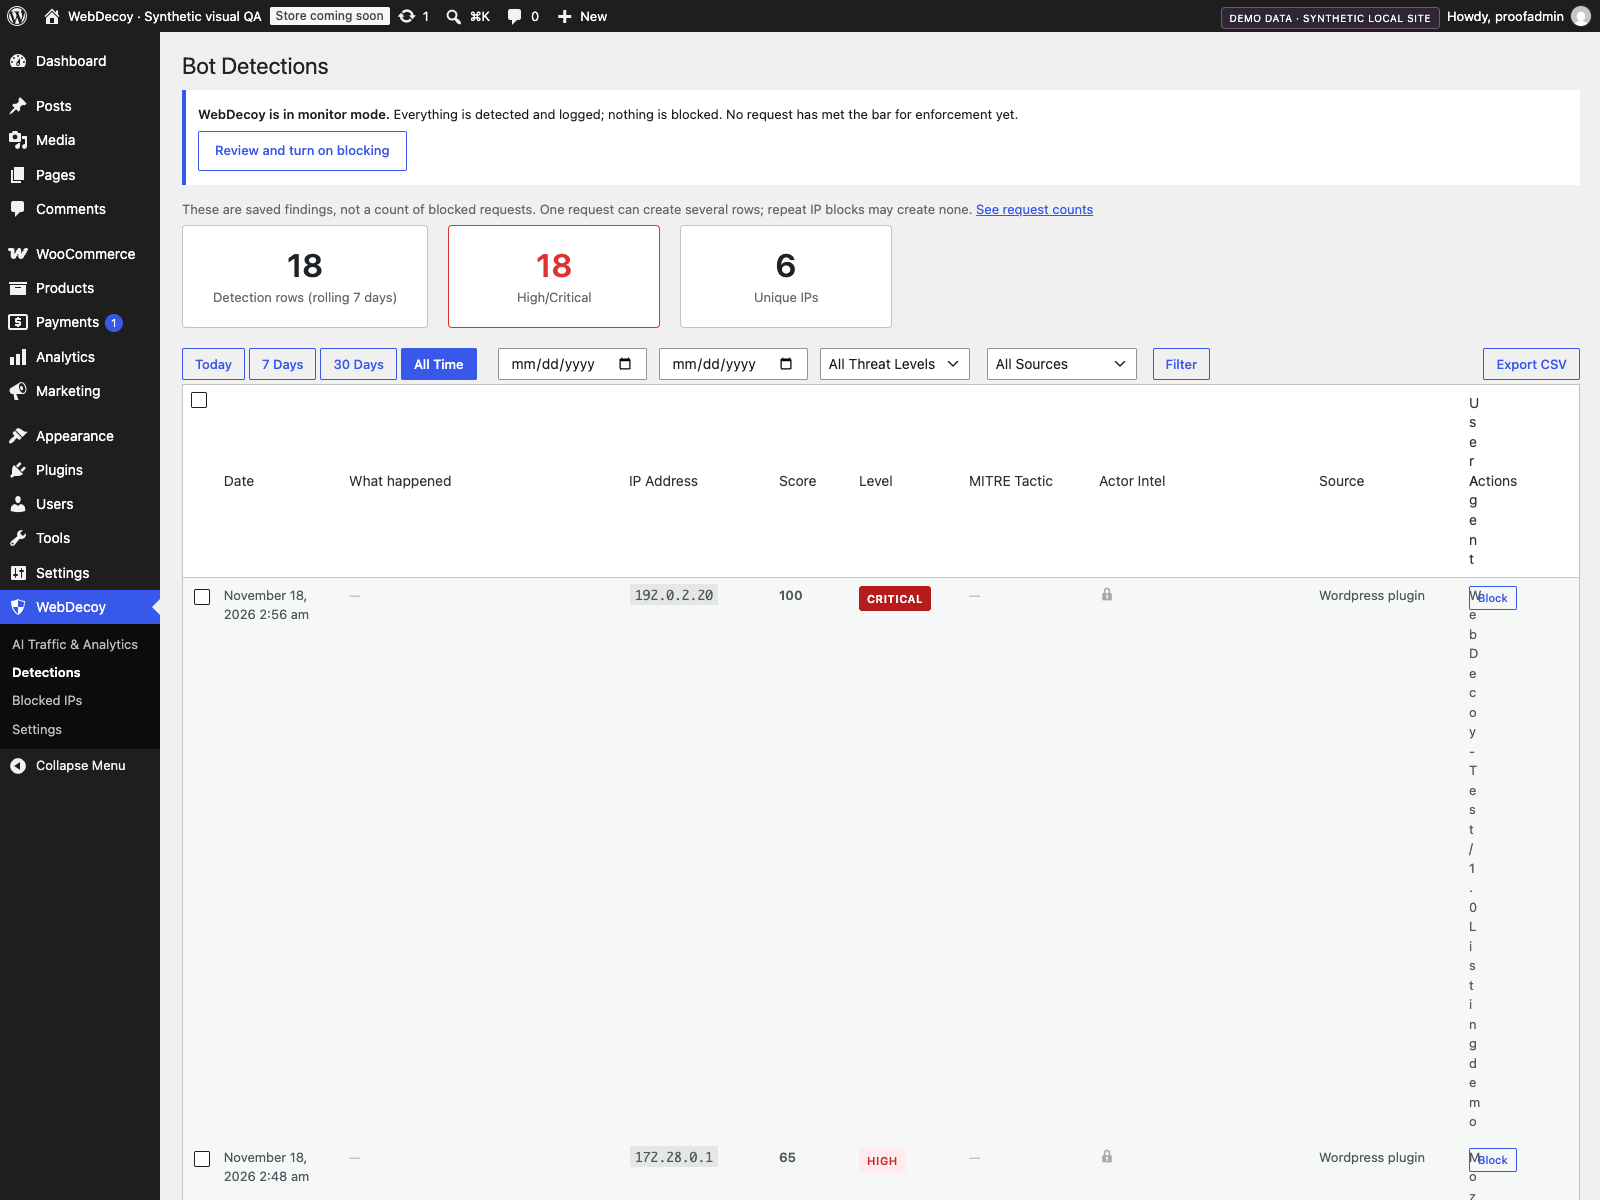
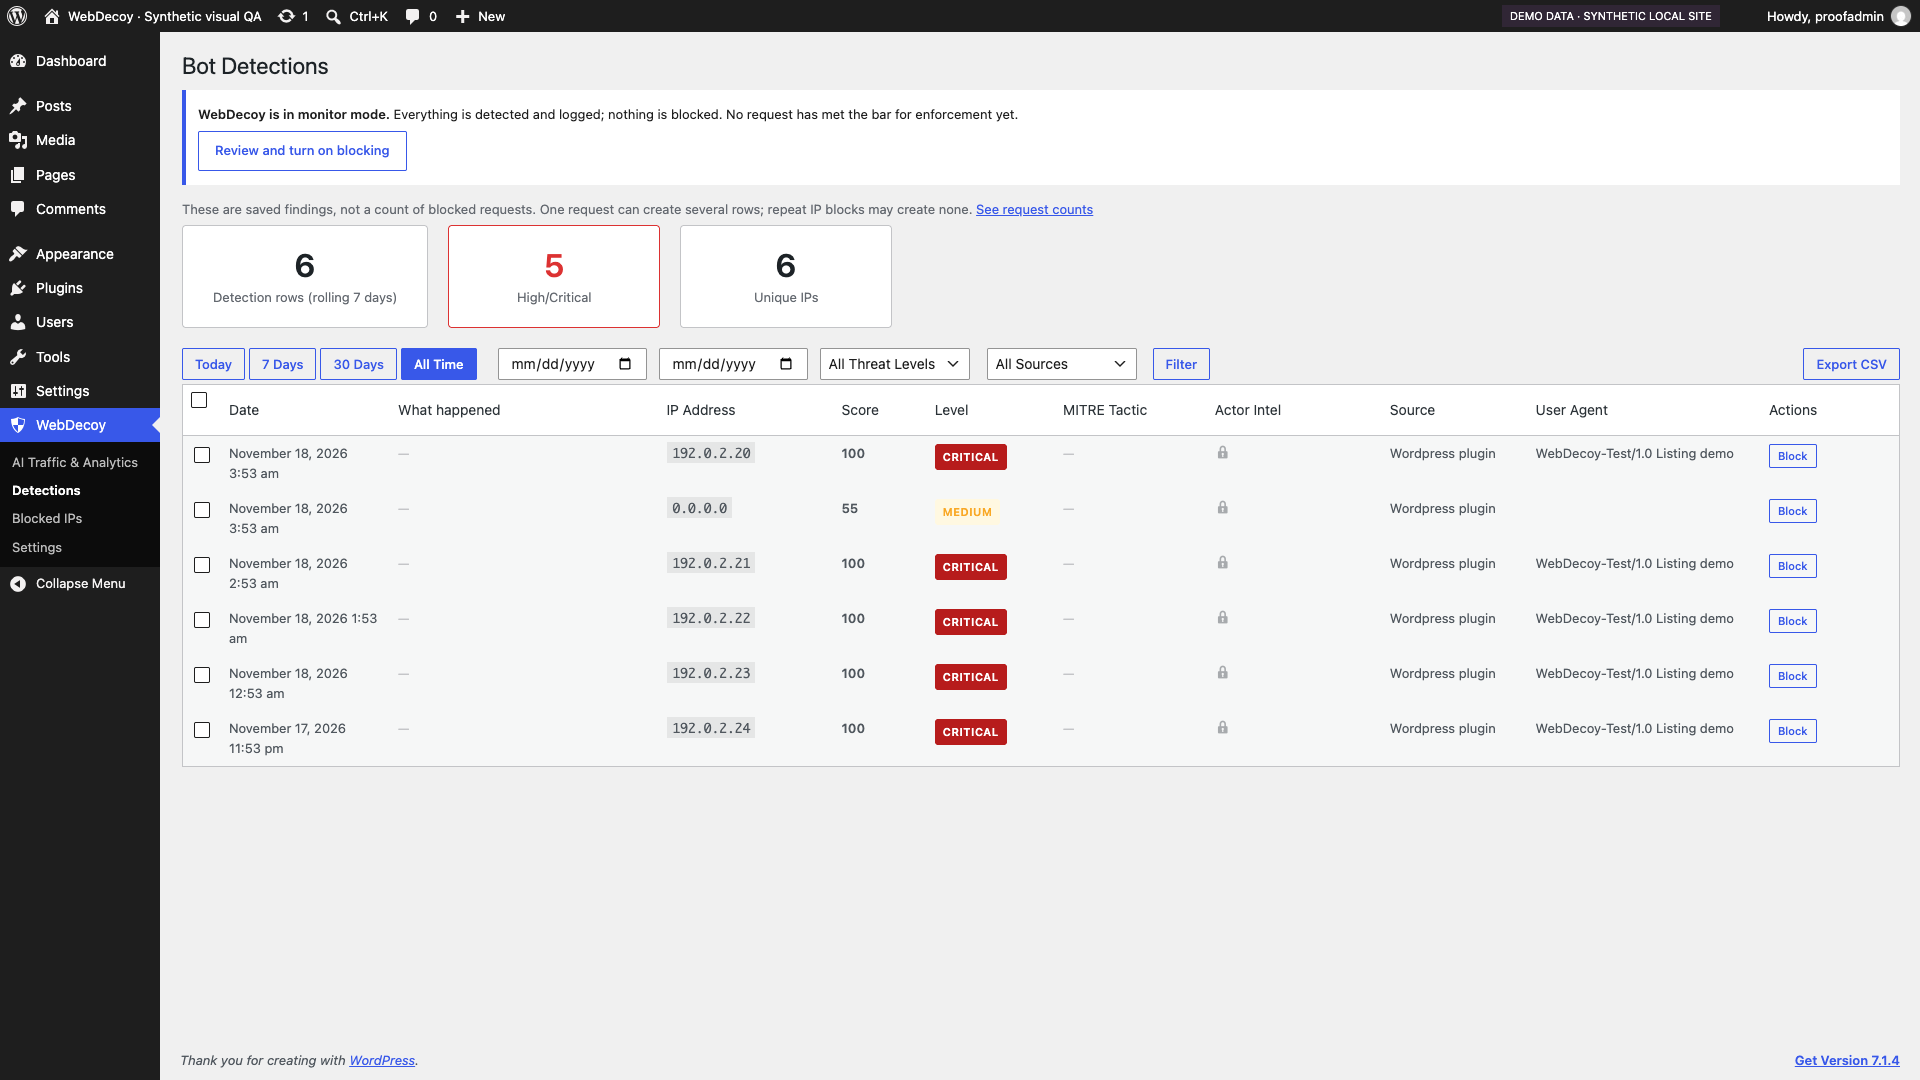
Fix detection table sizing and compact dashboard widget (#143)

diff --git a/admin/css/webdecoy-admin.css b/admin/css/webdecoy-admin.css
@@ -1214,3 +1214,42 @@
 .wd-analytics .notice-info p { display: inline-block; margin: 8px 8px 8px 0; }
 
 .wd-table-scroll { overflow-x: auto; margin-bottom: 24px; }
+
+/* Keep technical columns readable; scroll the table instead of crushing User Agent. */
+.wd-detections-scroll { width: 100%; overflow-x: auto; }
+.wd-detections-table { min-width: 1440px; }
+.wd-detections-table .column-ua { width: 180px; display: table-cell; overflow-wrap: anywhere; }
+.wd-detections-table .column-what { width: 210px; }
+.wd-detections-table .column-intel { width: 130px; }
+.wd-detections-table .column-date { width: 125px; }
+.wd-detections-table .column-source { width: 105px; }
+.wd-detections-table td { vertical-align: top; }
+
+/* Dashboard overview stays useful at the native WordPress widget width. */
+#webdecoy_dashboard_widget .wd-widget-brand { display:flex; align-items:center; gap:8px; padding:8px 0 14px; border-bottom:2px solid #f90289; }
+#webdecoy_dashboard_widget .wd-widget-brand a { margin-left:auto; font-size:12px; }
+#webdecoy_dashboard_widget .webdecoy-widget-stats { gap:8px; padding:14px 0; }
+#webdecoy_dashboard_widget .webdecoy-stat { flex:1; min-width:0; }
+#webdecoy_dashboard_widget .webdecoy-stat-value { font-size:25px; }
+#webdecoy_dashboard_widget .webdecoy-stat-label { font-size:11px; line-height:1.3; display:block; margin-top:4px; }
+#webdecoy_dashboard_widget .webdecoy-widget-crawlers h4 { margin-top:12px; }
+#webdecoy_dashboard_widget .webdecoy-widget-agents { margin:10px 0; }
+#webdecoy_dashboard_widget .wd-widget-bar-row { position:relative; isolation:isolate; padding:6px 9px; margin-bottom:4px; gap:8px; }
+#webdecoy_dashboard_widget .wd-widget-bar { position:absolute; z-index:-1; inset:0 auto 0 0; background:#fce4f1; border-radius:3px; }
+#webdecoy_dashboard_widget .webdecoy-widget-ai-referrals .wd-widget-bar { background:#eeebfa; }
+#webdecoy_dashboard_widget .webdecoy-count { font-variant-numeric:tabular-nums; font-weight:600; }
+#webdecoy_dashboard_widget .webdecoy-widget-footnote { margin-bottom:0; }
+#webdecoy_dashboard_widget .wd-widget-details { padding:12px 0; border-bottom:1px solid #eee; }
+#webdecoy_dashboard_widget .wd-widget-details summary { cursor:pointer; font-weight:600; }
+#webdecoy_dashboard_widget .webdecoy-widget-upsell { margin-top:12px; padding:8px 10px; background:#faf7fb; border-left:3px solid #f90289; }
+@media (max-width:480px) {
+    #webdecoy_dashboard_widget .wd-widget-brand { flex-wrap:wrap; }
+    #webdecoy_dashboard_widget .wd-widget-brand a { margin-left:40px; }
+}
+@media (max-width:782px) {
+    .webdecoy-date-buttons { flex-wrap:wrap; margin-right:0; }
+    .webdecoy-filters { min-width:0; max-width:100%; }
+}
+@media (max-width:782px) {
+    .webdecoy-stat-box { box-sizing:border-box; min-width:0; }
+}

diff --git a/admin/partials/dashboard-widget.php b/admin/partials/dashboard-widget.php
@@ -61,6 +61,11 @@ if (class_exists('WooCommerce')) {
 ?>
 
 <div class="webdecoy-widget">
+    <div class="wd-widget-brand">
+        <img src="<?php echo esc_url(WEBDECOY_PLUGIN_URL . 'assets/duck.png'); ?>" width="32" height="32" alt="" />
+        <strong><?php esc_html_e('Your AI & bot traffic', 'webdecoy'); ?></strong>
+        <a href="<?php echo esc_url(admin_url('admin.php?page=webdecoy-statistics')); ?>"><?php esc_html_e('Open analytics →', 'webdecoy'); ?></a>
+    </div>
     <?php
     // Trip-it-yourself prompt (app#679): shown only while the widget has
     // nothing to report — once real detections exist, the numbers speak.
@@ -116,7 +121,8 @@ if (class_exists('WooCommerce')) {
         </p>
         <ul class="webdecoy-widget-agents">
             <?php foreach (array_slice($crawlers['agents'], 0, 5) as $webdecoy_dw_agent) : ?>
-            <li>
+            <li class="wd-widget-bar-row">
+                <span class="wd-widget-bar" aria-hidden="true" style="width: <?php echo esc_attr((string) min(100, 100 * (int) $webdecoy_dw_agent['hits'] / max(1, (int) $crawlers['agents'][0]['hits']))); ?>%"></span>
                 <span class="webdecoy-agent-name">
                     <strong><?php echo esc_html($webdecoy_dw_agent['name']); ?></strong>
                     <span class="webdecoy-agent-category"><?php echo esc_html(WebDecoy_Crawler_Visits::category_label((string) $webdecoy_dw_agent['category'])); ?></span>
@@ -141,7 +147,8 @@ if (class_exists('WooCommerce')) {
         <?php if ((int) $ai_referrals['total'] > 0) : ?>
         <ul class="webdecoy-widget-agents">
             <?php foreach (array_slice($ai_referrals['platforms'], 0, 5) as $webdecoy_dw_ref) : ?>
-            <li>
+            <li class="wd-widget-bar-row">
+                <span class="wd-widget-bar" aria-hidden="true" style="width: <?php echo esc_attr((string) min(100, 100 * (int) $webdecoy_dw_ref['referrals'] / max(1, (int) $ai_referrals['platforms'][0]['referrals']))); ?>%"></span>
                 <span class="webdecoy-agent-name"><strong><?php echo esc_html($webdecoy_dw_ref['platform']); ?></strong></span>
                 <span class="webdecoy-count"><?php echo esc_html(number_format((int) $webdecoy_dw_ref['referrals'])); ?></span>
             </li>
@@ -154,6 +161,8 @@ if (class_exists('WooCommerce')) {
         <?php endif; ?>
     </div>
 
+    <details class="wd-widget-details">
+        <summary><?php esc_html_e('Protection & request counts', 'webdecoy'); ?></summary>
     <div class="webdecoy-widget-request-counts">
         <h4><?php esc_html_e('Detection rows and requests today (UTC)', 'webdecoy'); ?></h4>
         <?php if ($request_counts_today['available']) : ?>
@@ -226,6 +235,8 @@ if (class_exists('WooCommerce')) {
         </a>
     </div>
 
+    </details>
+
     <?php
     $options = get_option('webdecoy_options', []);
     if (empty($options['api_key'])) :
@@ -233,7 +244,7 @@ if (class_exists('WooCommerce')) {
     <div class="webdecoy-widget-upsell">
         <p>
             <strong><?php esc_html_e('Everything above works without an account.', 'webdecoy'); ?></strong>
-            <?php esc_html_e('Connect for free to see these detections in the WebDecoy dashboard and get a monthly report. Paid plans add whether an address has been seen attacking other sites, and webhook alerts.', 'webdecoy'); ?>
+
             <a href="<?php echo esc_url(admin_url('admin.php?page=webdecoy&tab=cloud')); ?>">
                 <?php esc_html_e('Connect this site', 'webdecoy'); ?>
             </a>

diff --git a/admin/partials/detections-page.php b/admin/partials/detections-page.php
@@ -285,7 +285,8 @@ if ($wd_intel_connected && !empty($detections) && class_exists('WebDecoy_Actor_I
             <p><?php esc_html_e('No detections found.', 'webdecoy'); ?></p>
         <?php endif; ?>
     <?php else : ?>
-        <table class="wp-list-table widefat fixed striped">
+        <div class="wd-detections-scroll" role="region" aria-label="<?php esc_attr_e('Bot detections', 'webdecoy'); ?>" tabindex="0">
+        <table class="wp-list-table widefat fixed striped wd-detections-table">
             <thead>
                 <tr>
                     <th class="check-column"><input type="checkbox" id="webdecoy-select-all" /></th>
@@ -527,6 +528,7 @@ if ($wd_intel_connected && !empty($detections) && class_exists('WebDecoy_Actor_I
                 <?php endforeach; ?>
             </tbody>
         </table>
+        </div>
 
         <?php if ($total_pages > 1) : ?>
         <div class="tablenav bottom">
